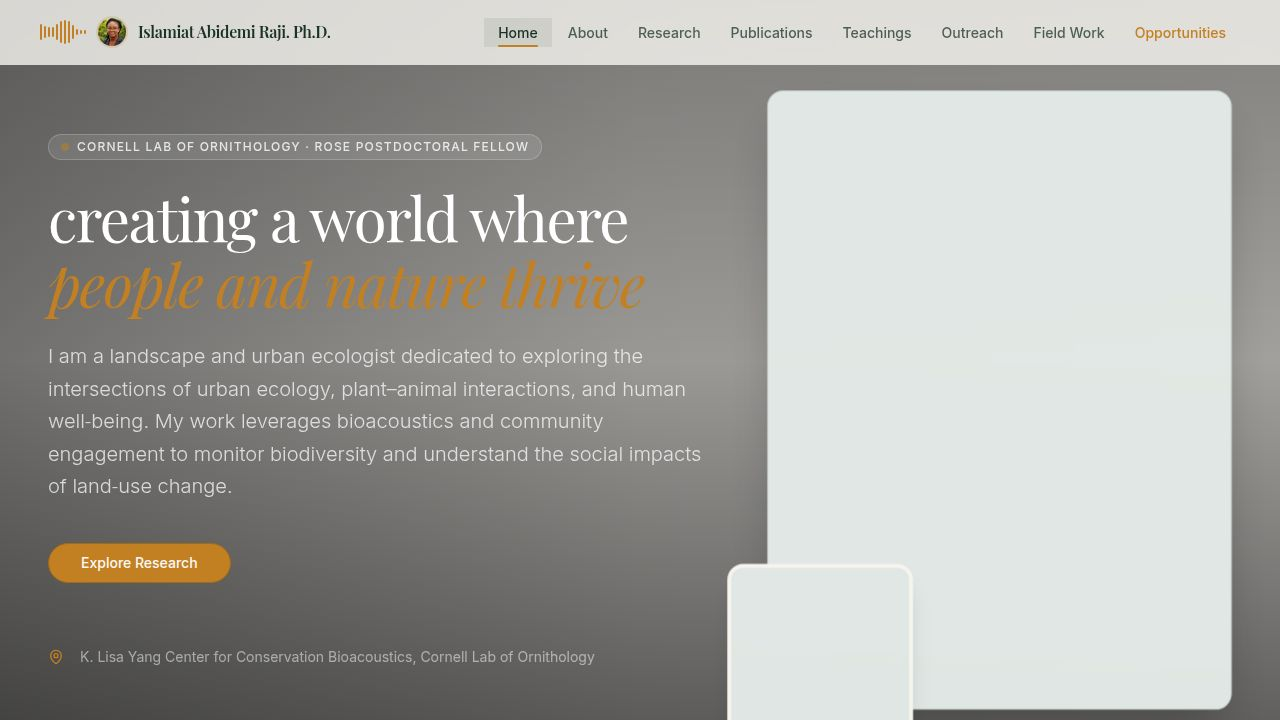
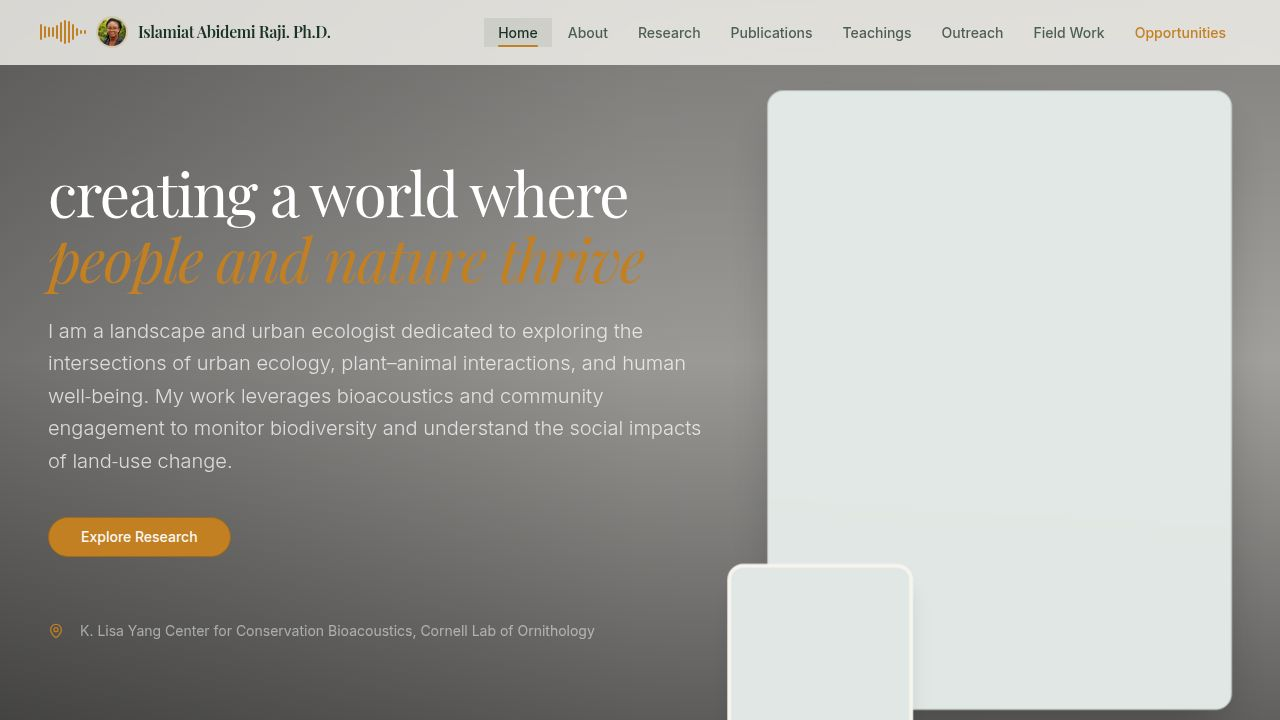
Remove badge from website hero section and update project build artifacts
Removed the institution badge from the Hero component in `artifacts/iar-site/src/components/sections/Hero.tsx` and updated build artifacts including `.firebase/hosting.YXJ0aWZhY3RzL2lhci1zaXRlL2Rpc3Q.cache` and `artifacts/iar-site/public/opengraph.jpg`.

Replit-Commit-Author: Agent
Replit-Commit-Session-Id: 547843fa-02ad-4a4f-a088-ff8336530461
Replit-Commit-Checkpoint-Type: full_checkpoint
Replit-Commit-Event-Id: bf8acf43-a683-4870-8aa3-5818f64c89a8
Replit-Commit-Screenshot-Url: https://storage.googleapis.com/screenshot-production-us-central1/999cadd8-0fb8-4ce9-b661-81cb27b8cc93/547843fa-02ad-4a4f-a088-ff8336530461/MMVUZUU
Replit-Helium-Checkpoint-Created: true

Changed region(s): [[0.0312, 0.1833, 0.5625, 0.825], [0.0312, 0.8556, 0.4688, 0.9167]]

diff --git a/artifacts/iar-site/src/components/sections/Hero.tsx b/artifacts/iar-site/src/components/sections/Hero.tsx
@@ -52,11 +52,6 @@ export function Hero() {
               animate={{ opacity: 1, y: 0 }}
               transition={{ duration: 0.8, ease: [0.22, 1, 0.36, 1], delay: 0.2 }}
             >
-              <div className="inline-flex items-center gap-2 px-3 py-1 rounded-full bg-white/10 text-white/80 text-xs font-medium tracking-widest mb-6 uppercase border border-white/20">
-                <span className="w-2 h-2 rounded-full bg-primary animate-pulse"></span>
-                {c.badge}
-              </div>
-
               <h1 className="font-serif text-4xl md:text-5xl lg:text-6xl leading-[1.1] text-white mb-6">
                 {c.headline}<br />
                 <span className="text-primary italic">{c.headline_accent}</span>
